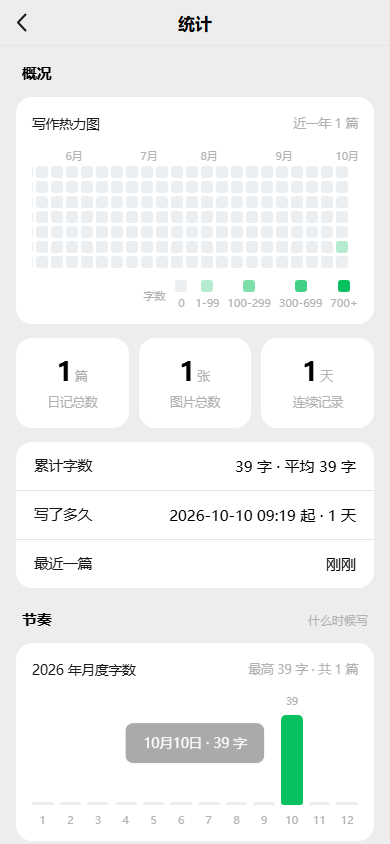
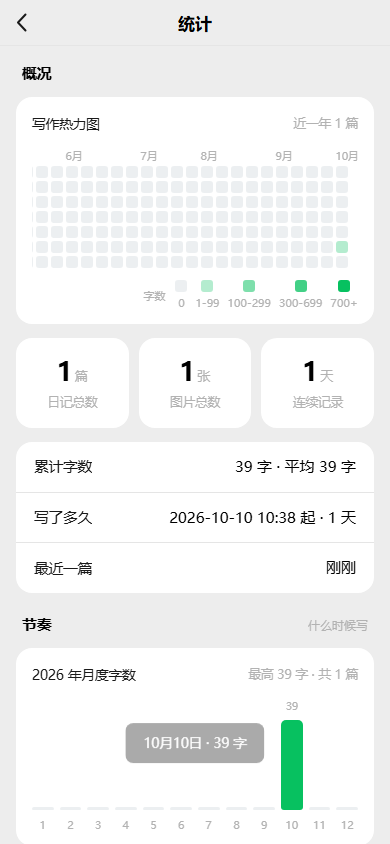
fix(stats): bar height no longer flattened by flex-shrink; long values wrap
用户报两个问题，都是实打实的布局 bug：

1. 月度柱状图等高 —— .bar-col 高 132px，固定开销（数字 13 + 月份 16 + 两个 gap 14
   = 43px）之外柱子只剩 89px。height:100% 的柱子先要 132px、超出后被 flex-shrink
   压回 ~89px，而 68% 的柱子本来只要 89.8px、几乎不被压，于是上月 2230 字与本月
   1512 字显示成等高。修法：加 .bar-track 让柱高百分比有正确的基准（实测比例
   0.680 vs 期望 0.678）。

2. 句式习惯行显示不全又不能横划 —— .sr-value 写死 nowrap + flex:none，内容一长
   就被 overflow:hidden 裁掉。改为数值允许换行、名目优先保完整（原来名目会被截成
   「句式…」）。注脚（！？…… 计数）改走 unit 槽套 <i>，弱化成小字灰。

e2e 新增 [18b] 节（注入多月份数据）守住这两条：柱高正比 + 所有明细行不溢出/不截断。
362 项全绿（+4）。

diff --git a/index.html b/index.html
@@ -663,6 +663,15 @@ input,textarea{font-family:inherit}
 .chart-title span{margin-left:auto;color:var(--sub);font-size:12.5px}
 .bars{display:flex;align-items:flex-end;gap:6px;height:132px}
 .bar-col{flex:1;display:flex;flex-direction:column;justify-content:flex-end;align-items:center;gap:7px;height:100%}
+/*
+ * 柱子的"轨道"：柱高百分比必须基于这条轨道，不能基于整列。
+ * 整列里还有数字(13px)、月份(16px)和两个 gap(14px)，柱子实际可用的只有 89px；
+ * 若直接给柱子 height:100%，它会先要 132px、超出后被 flex-shrink 压回 89px，
+ * 而 68% 的柱子本来只要 89.8px、几乎不被压 —— 两根柱最后一样高（已踩：
+ * 上月 2230 字与本月 1512 字显示成等高）。轨道把固定开销挡在外面，
+ * 柱高才真正成正比。
+ */
+.bar-track{flex:1;width:100%;display:flex;align-items:flex-end;justify-content:center;min-height:0}
 .bar{
   width:100%;max-width:26px;border-radius:5px 5px 3px 3px;background:var(--ink-tint);
   min-height:3px;transition:height .4s cubic-bezier(.4,0,.2,1);
@@ -676,11 +685,18 @@ input,textarea{font-family:inherit}
   border-bottom:.5px solid var(--line);font-size:14.5px;
 }
 .stat-rows .stat-row:last-child{border-bottom:0}
-/* 左名目 + 右数值：名目固定色、数值加重，长名目不换行 */
-.stat-row .sr-label{color:var(--text);flex:1;min-width:0;overflow:hidden;text-overflow:ellipsis;white-space:nowrap}
+/* 左名目 + 右数值：名目固定色、数值加重。
+   空间分配的原则：**名目优先保完整**（它只有 2~4 个字，"句式习惯"被截成"句式…"
+   就完全读不懂了），数值允许换行。原来两边都写死 nowrap，长数值被 overflow:hidden
+   裁掉——看得到半截又划不动（用户反馈）。 */
+.stat-row .sr-label{
+  color:var(--text);flex:0 0 auto;max-width:45%;
+  overflow:hidden;text-overflow:ellipsis;white-space:nowrap;
+}
 .stat-row .sr-value{
-  margin-left:auto;flex:none;font-weight:500;color:var(--text-strong);font-size:15px;
-  font-variant-numeric:tabular-nums;white-space:nowrap;
+  margin-left:auto;flex:1 1 auto;min-width:0;text-align:right;
+  font-weight:500;color:var(--text-strong);font-size:15px;
+  font-variant-numeric:tabular-nums;white-space:normal;word-break:break-word;line-height:1.45;
 }
 .stat-row .sr-value i{font-style:normal;font-size:12.5px;font-weight:400;color:var(--sub);margin-left:1px}
 /* 三段（概况 / 节奏 / 内容）的分段路标：既是标题，也是长页面滚动时的视觉锚点。
@@ -2695,8 +2711,8 @@ function rhythmBars(bin, labels, topIdx) {
   return '<div class="bars sm">' + bin.map(function (n, i) {
     var h = Math.max(n ? Math.round(n / max * 100) : 0, n ? 4 : 3);
     return '<div class="bar-col">' +
-      '<div class="bar' + (n ? (i === topIdx ? ' has top' : ' has') : '') +
-        '" style="height:' + h + '%"></div>' +
+      '<div class="bar-track"><div class="bar' + (n ? (i === topIdx ? ' has top' : ' has') : '') +
+        '" style="height:' + h + '%"></div></div>' +
       '<div class="bar-cap">' + (labels[i] || '&nbsp;') + '</div>' +
     '</div>';
   }).join('') + '</div>';
@@ -2889,7 +2905,8 @@ function renderStats() {
           var h = Math.round(n / max * 100);
           return '<div class="bar-col">' +
             '<div class="bar-num">' + (n ? (n >= 1000 ? (Math.round(n / 100) / 10) + 'k' : n) : '') + '</div>' +
-            '<div class="bar' + (n ? ' has' : '') + '" style="height:' + Math.max(h, 2) + '%"></div>' +
+            '<div class="bar-track"><div class="bar' + (n ? ' has' : '') +
+              '" style="height:' + Math.max(h, 2) + '%"></div></div>' +
             '<div class="bar-cap">' + (i + 1) + '</div>' +
           '</div>';
         }).join('') + '</div>' +
@@ -2939,8 +2956,9 @@ function renderStats() {
         // 且 Y% 由 X 和总数一除就得 —— 并成一行
         statRow('配图', withImg + ' 篇带图 · 平均 ' + avgImg + ' 张', '', true) +
         // 句式习惯：每 100 字几个逗号（替代原来的"标点习惯"——它挑的是四种情绪标点里
-        // 最多的那个，用户逗号最多却选不进来，端出来一个次多的，属于名实不符）
-        statRow('句式习惯', commaText + (markText ? ' · ' + markText : ''), '', true) +
+        // 最多的那个，用户逗号最多却选不进来，端出来一个次多的，属于名实不符）。
+        // 注脚（！？…… 计数）走 unit 槽套 <i>：小一号、灰色，不和主信息抢眼。
+        statRow('句式习惯', commaText, markText ? ' · ' + markText : '') +
       '</div>' +
     '</div>' +
     '<div class="stat-note">统计只在本机计算，不会上传任何数据。</div>';

diff --git a/README.md b/README.md
@@ -117,11 +117,11 @@ _verify/                # 自动化验证脚本与界面截图
 
 ## 自动化验证
 
-项目里的功能都有对应的浏览器回归脚本，共 **598 项断言**，不需要真机：
+项目里的功能都有对应的浏览器回归脚本，共 **602 项断言**，不需要真机：
 
 ```bash
 cd _verify
-node e2e_diary.mjs           # 358 项：网页版全量回归（需先另开终端 node serve.cjs）
+node e2e_diary.mjs           # 362 项：网页版全量回归（需先另开终端 node serve.cjs）
 node verify_close_pin.mjs    #  89 项：密码锁的关闭 / 修改流程
 node native_shell.mjs        #  36 项：注入假原生桥，验证返回键 / 原生导出 / 状态栏
 node verify_zoom_rotate.mjs  #  36 项：照片缩放 / 横屏适配 / 拍照回退
